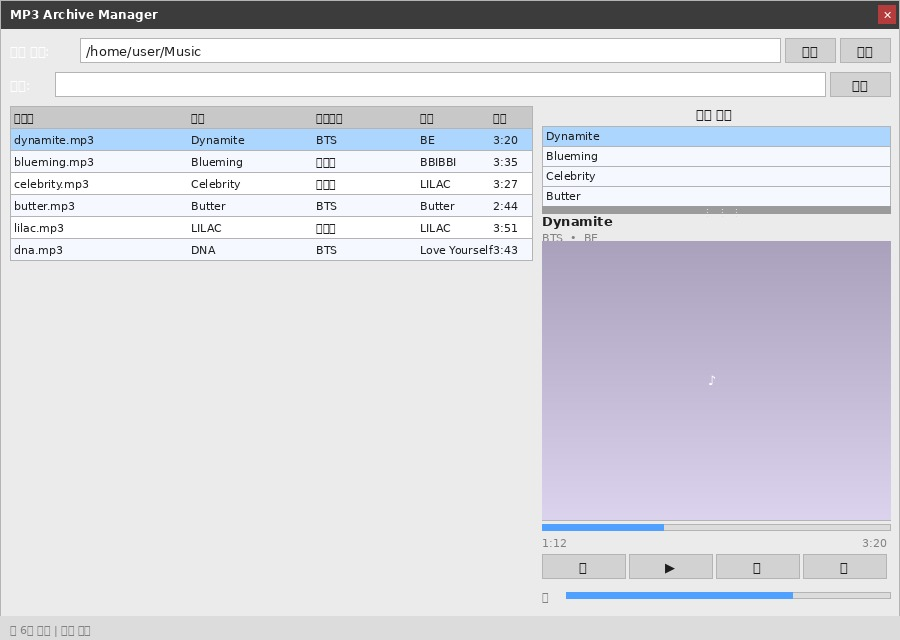
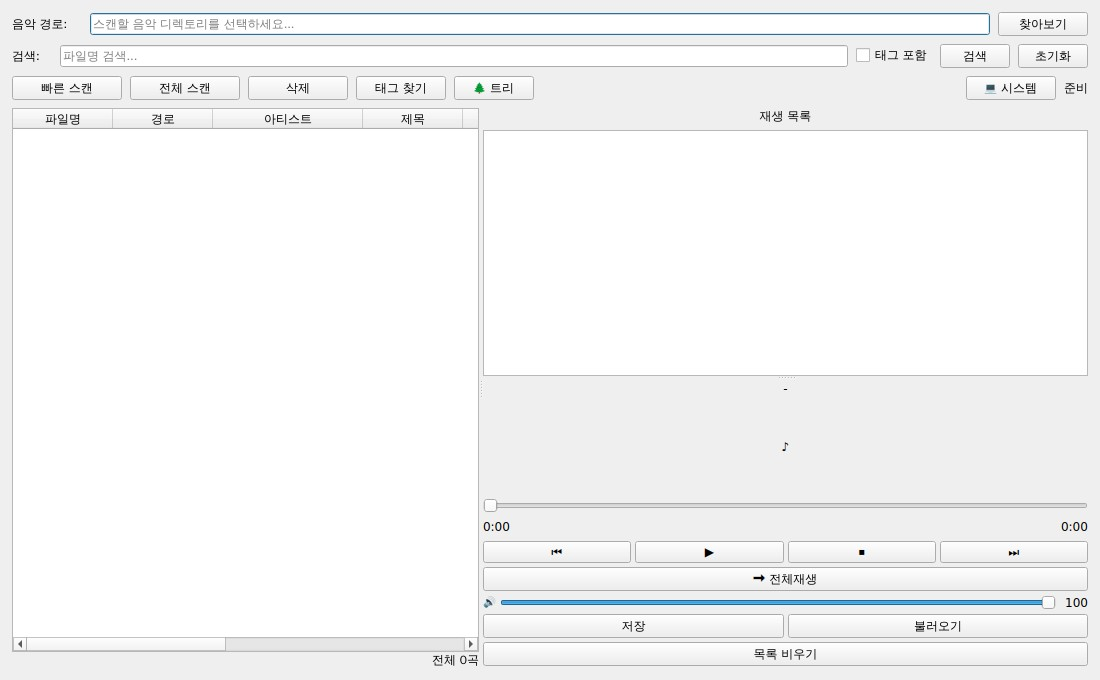
main_window: show album art tooltip on album column
Extend the lazy tooltip mechanism to column 4 (album) in addition to
column 0 (filename). The file path is stored in UserRole on the album
item so the event filter can load the embedded album art on first hover
without any change to the tooltip-building logic.

https://claude.ai/code/session_01YFDPmPzoyxfymLkiNHqsrJ

diff --git a/src/main_window.py b/src/main_window.py
@@ -716,15 +716,16 @@ class MainWindow(QMainWindow):
                         self._playing_index -= 1
                 return True
 
-        # Lazy album-art tooltip for the MP3 table
+        # Lazy album-art tooltip for the MP3 table (filename col 0 and album col 4)
         if obj is self.table.viewport() and event.type() == QEvent.Type.ToolTip:
             pos = event.pos()
             index = self.table.indexAt(pos)
-            if index.isValid() and index.column() == 0:
-                item = self.table.item(index.row(), 0)
+            if index.isValid() and index.column() in (0, 4):
+                item = self.table.item(index.row(), index.column())
                 if item and not item.toolTip():
                     path = item.data(Qt.ItemDataRole.UserRole)
-                    item.setToolTip(_album_art_tooltip(path))
+                    if path:
+                        item.setToolTip(_album_art_tooltip(path))
             return False  # let Qt show the tooltip normally
 
         # --- Tree viewport: drag file items to playlist ---
@@ -1551,7 +1552,9 @@ class MainWindow(QMainWindow):
             self.table.setItem(row, 1, path_item)
             self.table.setItem(row, 2, _item(f["artist"] or "-"))
             self.table.setItem(row, 3, _item(f["title"] or "-"))
-            self.table.setItem(row, 4, _item(f["album"] or "-"))
+            album_item = QTableWidgetItem(f["album"] or "-")
+            album_item.setData(Qt.ItemDataRole.UserRole, f["path"])
+            self.table.setItem(row, 4, album_item)
             self.table.setItem(row, 5, _item(f.get("genre") or "-"))
             self.table.setItem(row, 6, _item(f.get("year") or "-"))
             self.table.setItem(row, 7, _item(duration))